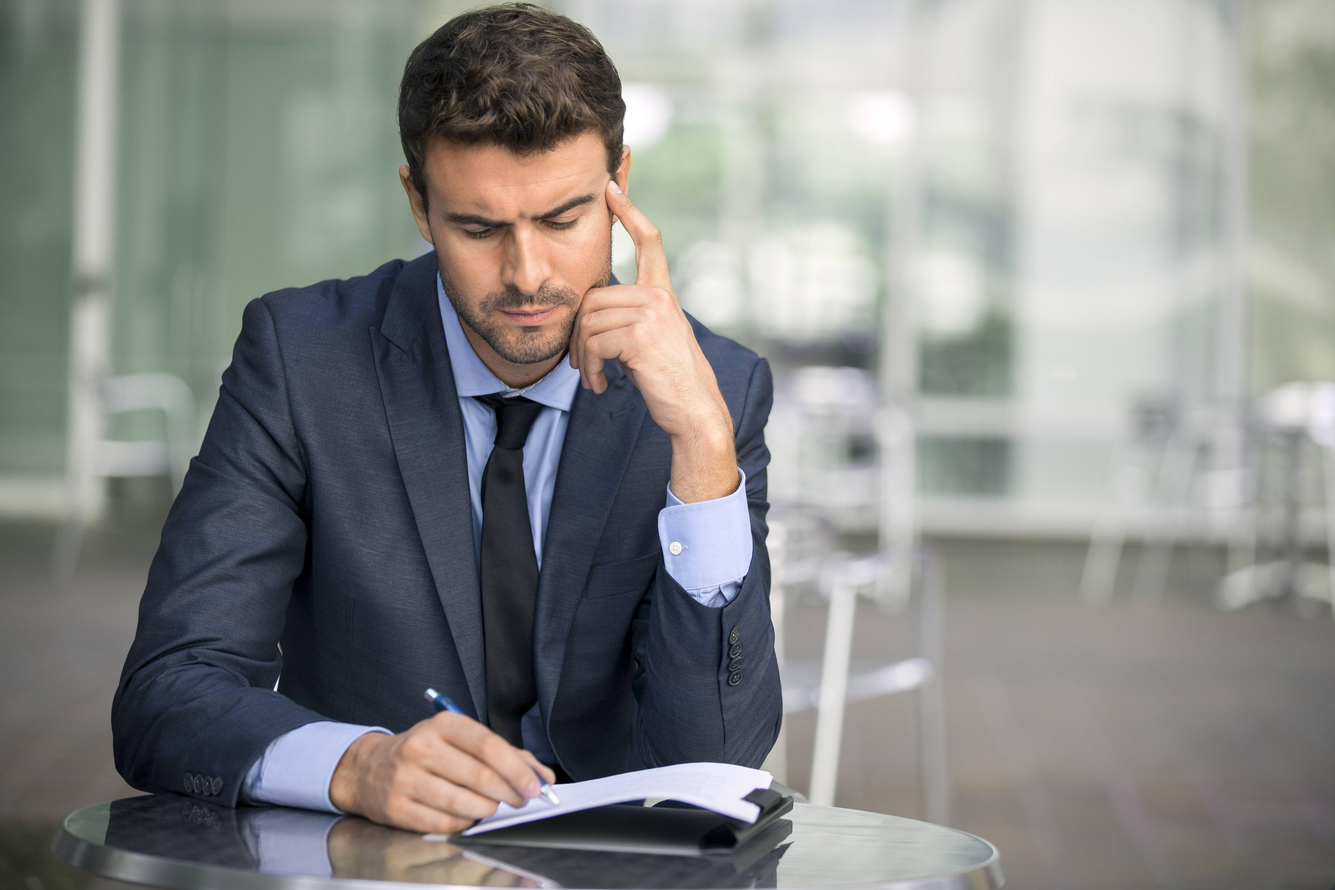
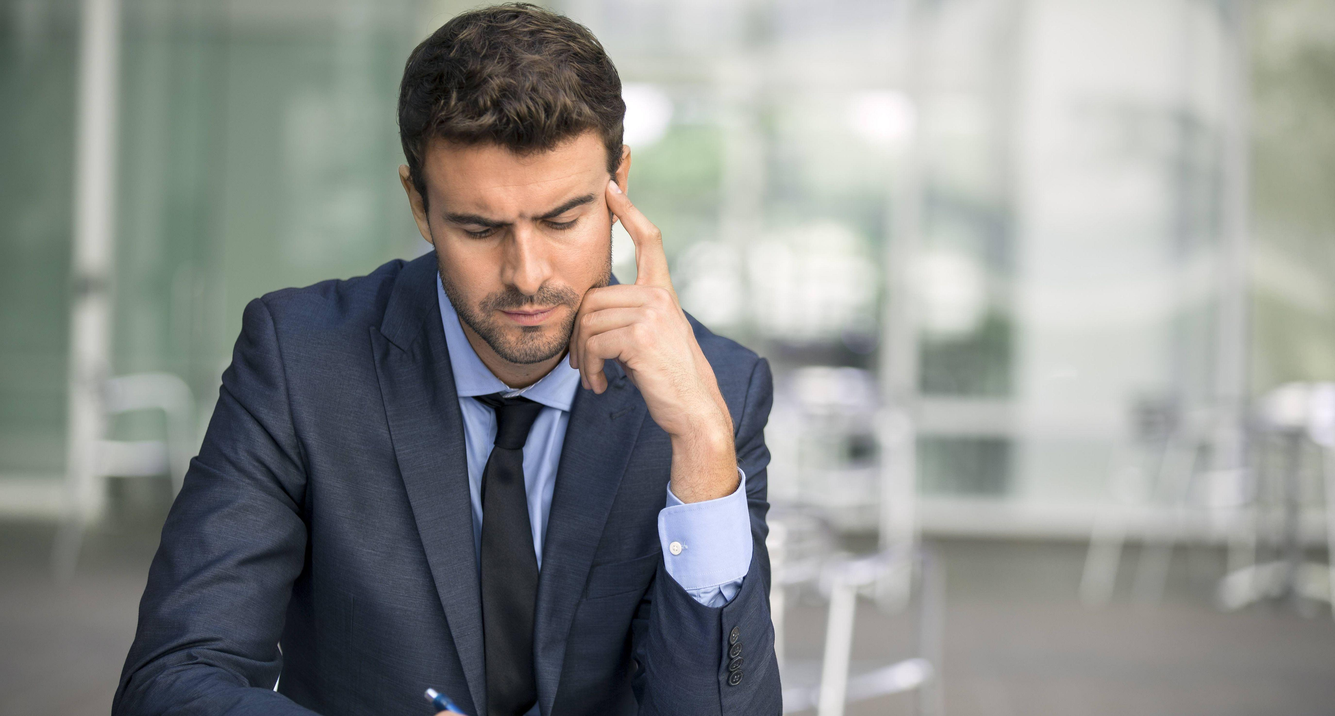
Signup/login working

diff --git a/website/templates/home.html b/website/templates/home.html
@@ -512,13 +512,20 @@
 
         .top-image {
             width: 100%;
-            height: auto;
+            height: 85vh;
             display: block;
             margin-bottom: 10px;
             object-fit: cover;
             display: block;
             justify-content: center;
         }
+        
+        .wa-header__logo img {
+    width: 50px;  /* Set the width for your logo */
+    height: auto;  /* Maintain the aspect ratio */
+    object-fit: contain;
+    margin-right: 10px;  /* Space between the logo and title */
+}
 
         /* Responsive Design */
         @media (max-width: 768px) {
@@ -607,6 +614,9 @@
     <header>
         <div class="container">
             <nav>
+            <div class="wa-header__logo">
+        <img src="/static/assets/foundit.png" alt="Logo" class="logo">
+         </div>
                 <a href="#" class="logo">FoundiT</a>
                 
                 <ul class="nav-links">
@@ -627,10 +637,12 @@
 
     <!-- Main Content -->
     <main>
+        <img src="static/assets/background.jpg" alt="Lost & Found" class="top-image">
         <div class="container">
+            
             <!-- Header Section -->
             <div class="header-section">
-                <img src="static/assets/background.jpg" alt="Lost & Found" class="top-image" width="100%">
+                               
                 <h1 class="main-title">Online Lost and Found</h1>
                 
                 <p class="description">

diff --git a/website/templates/signup.html b/website/templates/signup.html
@@ -619,7 +619,7 @@
                             <input type="tel" id="phone" name="phone" placeholder="+94 XX XXX XXXX">
                             <div class="error-message" id="phoneError">Please enter a valid phone number</div>
                         </div>
-                        <div class="form-group">
+                        <!-- <div class="form-group">
                             <label for="userType">User Type <span class="required">*</span></label>
                             <select id="userType" name="userType" required>
                                 <option value="">Select your role</option>
@@ -632,7 +632,7 @@
                             </select>
                             <div class="error-message" id="userTypeError">Please select your user type</div>
                         </div>
-                    </div>
+                    </div> -->
                 </div>
 
                 <div class="form-section">

diff --git a/website/templates/header.html b/website/templates/header.html
@@ -482,8 +482,8 @@
                    
                 <ul class="nav-links">
                     <li><a href="/welcome">Home</a></li>
-                    <li><a href="#features">Features</a></li>
-                    <li><a href="#how-it-works">How It Works</a></li>
+                    <li><a href="#features">Lost Items</a></li>
+                    <li><a href="#how-it-works">Found Items</a></li>
                     <li><a href="contact">Contact</a></li>
                 </ul>
 

diff --git a/website/auth.py b/website/auth.py
@@ -10,13 +10,12 @@ auth = Blueprint('auth', __name__)
 def signup():
     if request.method == 'POST':
         db = current_app.db
-        
+
         # Get form data
         first_name = request.form.get("firstName")
         last_name = request.form.get("lastName")
         email = request.form.get("email")
         phone = request.form.get("phone")
-        user_type = request.form.get("userType")
         password = request.form.get("password")
         confirm_password = request.form.get("confirmPassword")
         terms = request.form.get("terms")
@@ -31,10 +30,6 @@ def signup():
             flash("Passwords do not match", "error")
             return render_template("signup.html")
 
-        if not user_type:
-            flash("Please select a user type", "error")
-            return render_template("signup.html")
-
         if not terms:
             flash("You must agree to the terms and conditions", "error")
             return render_template("signup.html")
@@ -46,14 +41,13 @@ def signup():
         # Hash password
         hashed_pw = bcrypt.hashpw(password.encode("utf-8"), bcrypt.gensalt())
 
-        # Insert user
+        # Insert user (without user_type)
         try:
             result = db.users.insert_one({
                 "firstName": first_name,
                 "lastName": last_name,
                 "email": email,
                 "phone": phone,
-                "userType": user_type,
                 "password": hashed_pw.decode("utf-8"),
                 "termsAccepted": True,
                 "notifications": notifications
@@ -67,6 +61,7 @@ def signup():
             return render_template("signup.html")
 
     return render_template("signup.html")
+
 
 
 # -------------------------
@@ -125,5 +120,4 @@ def test_db():
         """
     except Exception as e:
         return f"Database test FAILED: {e}"
-
 
